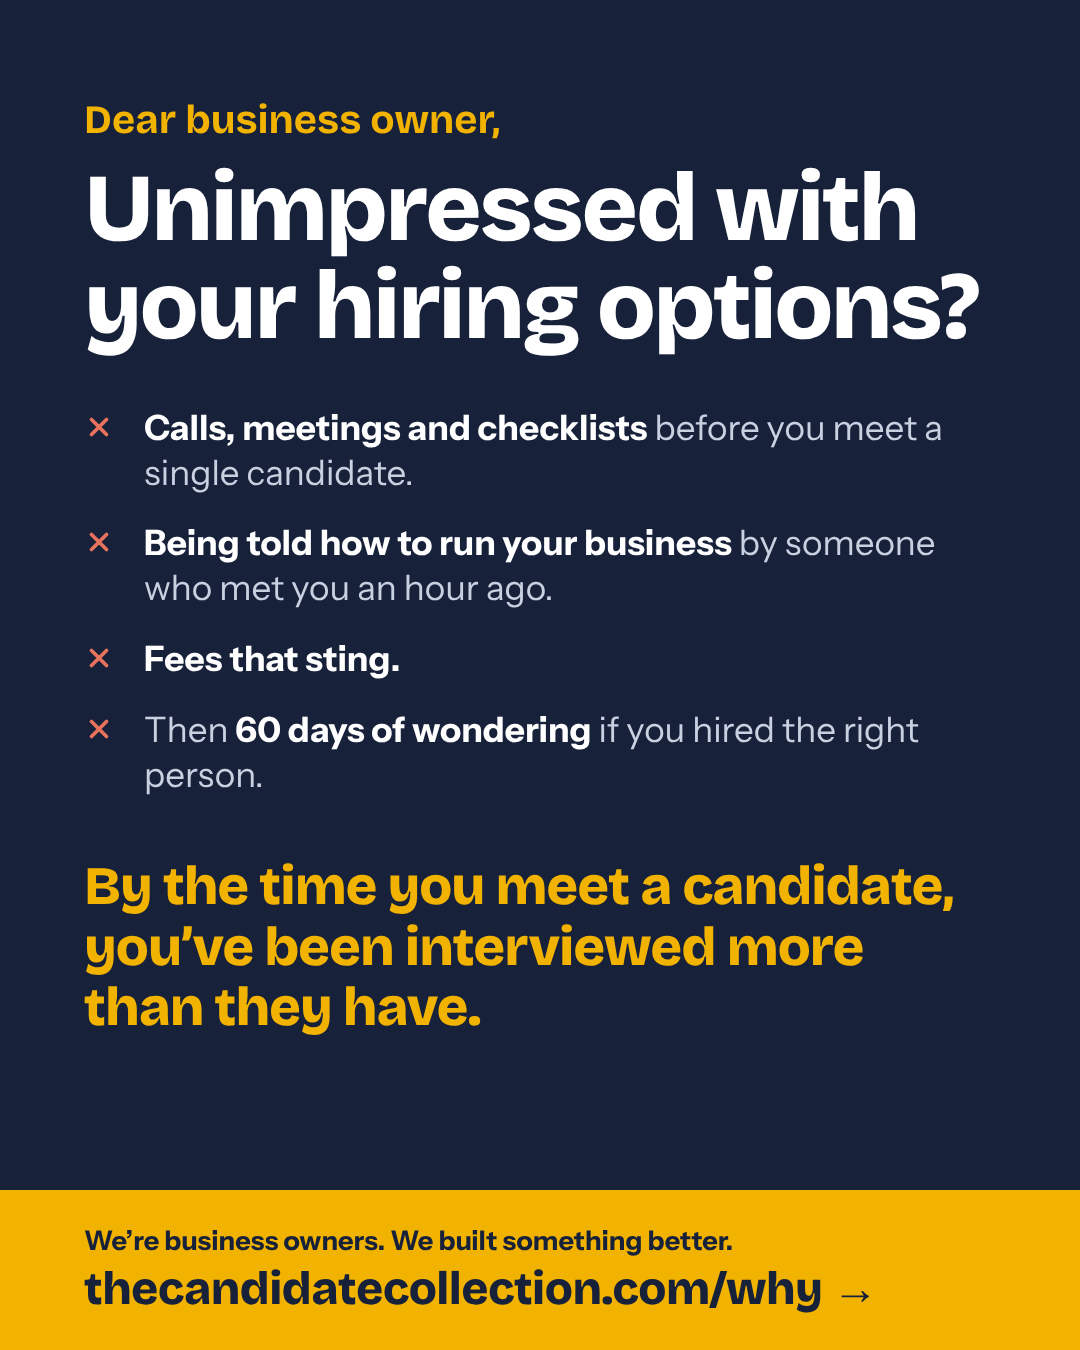
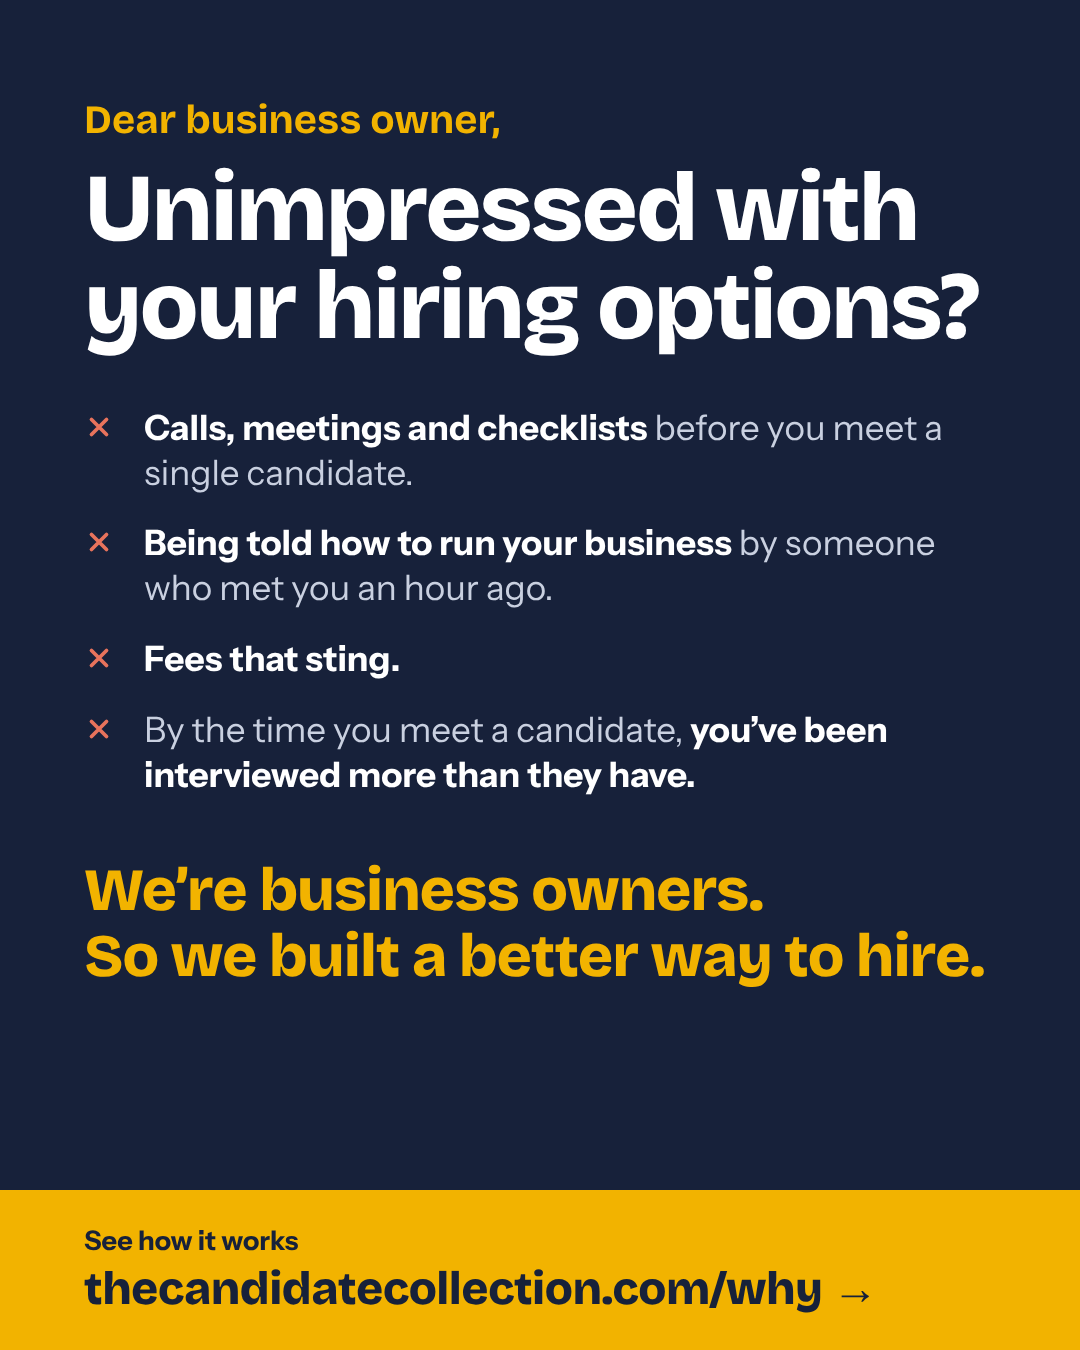
Teaser: interviewed line replaces 60 days; gold close: a better way to hire
Claude-Session: https://claude.ai/code/session_01EZeEyNzeQFPN4DFsUvzuMe

Changed region(s): [[0.0611, 0.6222, 0.9167, 0.7778], [0.1222, 0.5289, 0.8556, 0.5911], [0.0611, 0.9022, 0.6722, 0.9333]]

diff --git a/src/lib/shareKit.ts b/src/lib/shareKit.ts
@@ -20,7 +20,7 @@ export function shareLink(ref?: string | null) {
 }
 
 export function ownerMessage(link: string) {
-  return `Dear business owner,\n\nUnimpressed with your hiring options? Calls, meetings and checklists before you meet a single candidate. Being told how to run your business. Fees that sting. Then 60 days of wondering if you hired the right person.\n\nBy the time you meet a candidate, you've been interviewed more than they have.\n\nWe're business owners. We built something better:\n${link}`;
+  return `Dear business owner,\n\nUnimpressed with your hiring options? Calls, meetings and checklists before you meet a single candidate. Being told how to run your business. Fees that sting. And by the time you meet a candidate, you've been interviewed more than they have.\n\nWe're business owners. So we built a better way to hire:\n${link}`;
 }
 
 // A new owner who came through someone's link: remember who sent them.

diff --git a/src/app/layout.tsx b/src/app/layout.tsx
@@ -20,7 +20,7 @@ export const metadata: Metadata = {
     type: "website",
     siteName: brandName(),
     title: "Dear business owner, unimpressed with your hiring options?",
-    description: "By the time you meet a candidate, you’ve been interviewed more than they have. We’re business owners. We built something better.",
+    description: "By the time you meet a candidate, you’ve been interviewed more than they have. We’re business owners. So we built a better way to hire.",
     images: [{ url: "/share/og.png", width: 1200, height: 630, alt: "Dear business owner, unimpressed with your hiring options?" }],
   },
   twitter: { card: "summary_large_image", images: ["/share/og.png"] },
